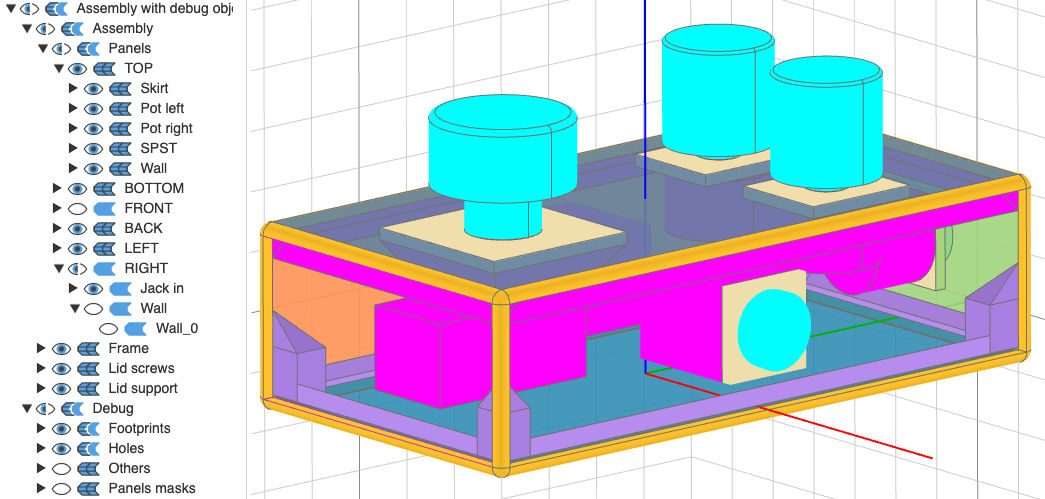
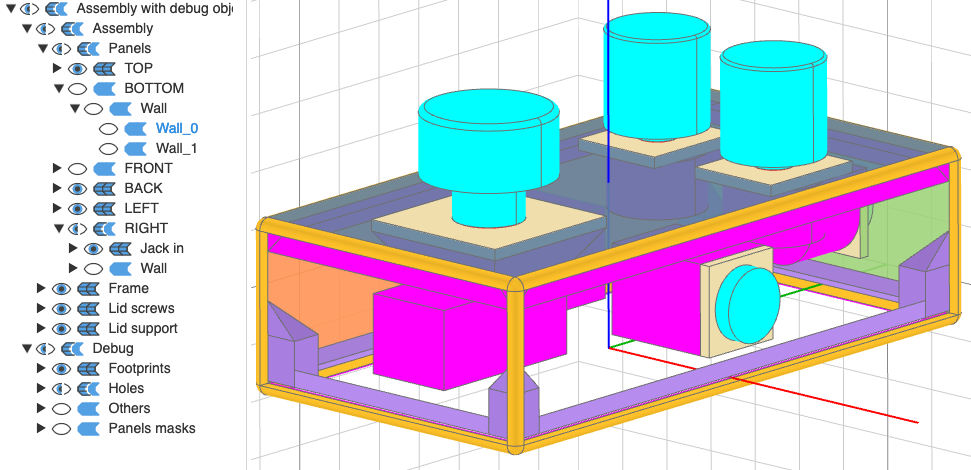
Fix positioning of Pyramid support

diff --git a/src/cq_enclosure_builder/parts/support/pyramid_support.py b/src/cq_enclosure_builder/parts/support/pyramid_support.py
@@ -39,13 +39,18 @@ class PyramidSupportPart(Part):
         # Board
         board = (
             cq.Workplane("front")
+                .box(base_size, base_size, enclosure_wall_thickness, centered=(True, True, False))
+        )
+        board = board.add(
+            cq.Workplane("front")
                 .rect(base_size, base_size)
                 .extrude(support_height, taper=pyramid_taper)
+                .translate([0, 0, enclosure_wall_thickness])
         )
         board = board.add(
             cq.Workplane("front")
                 .rect(top_size, top_size)
-                .extrude(support_height)
+                .extrude(support_height + enclosure_wall_thickness)
         )
 
         self.part = board
